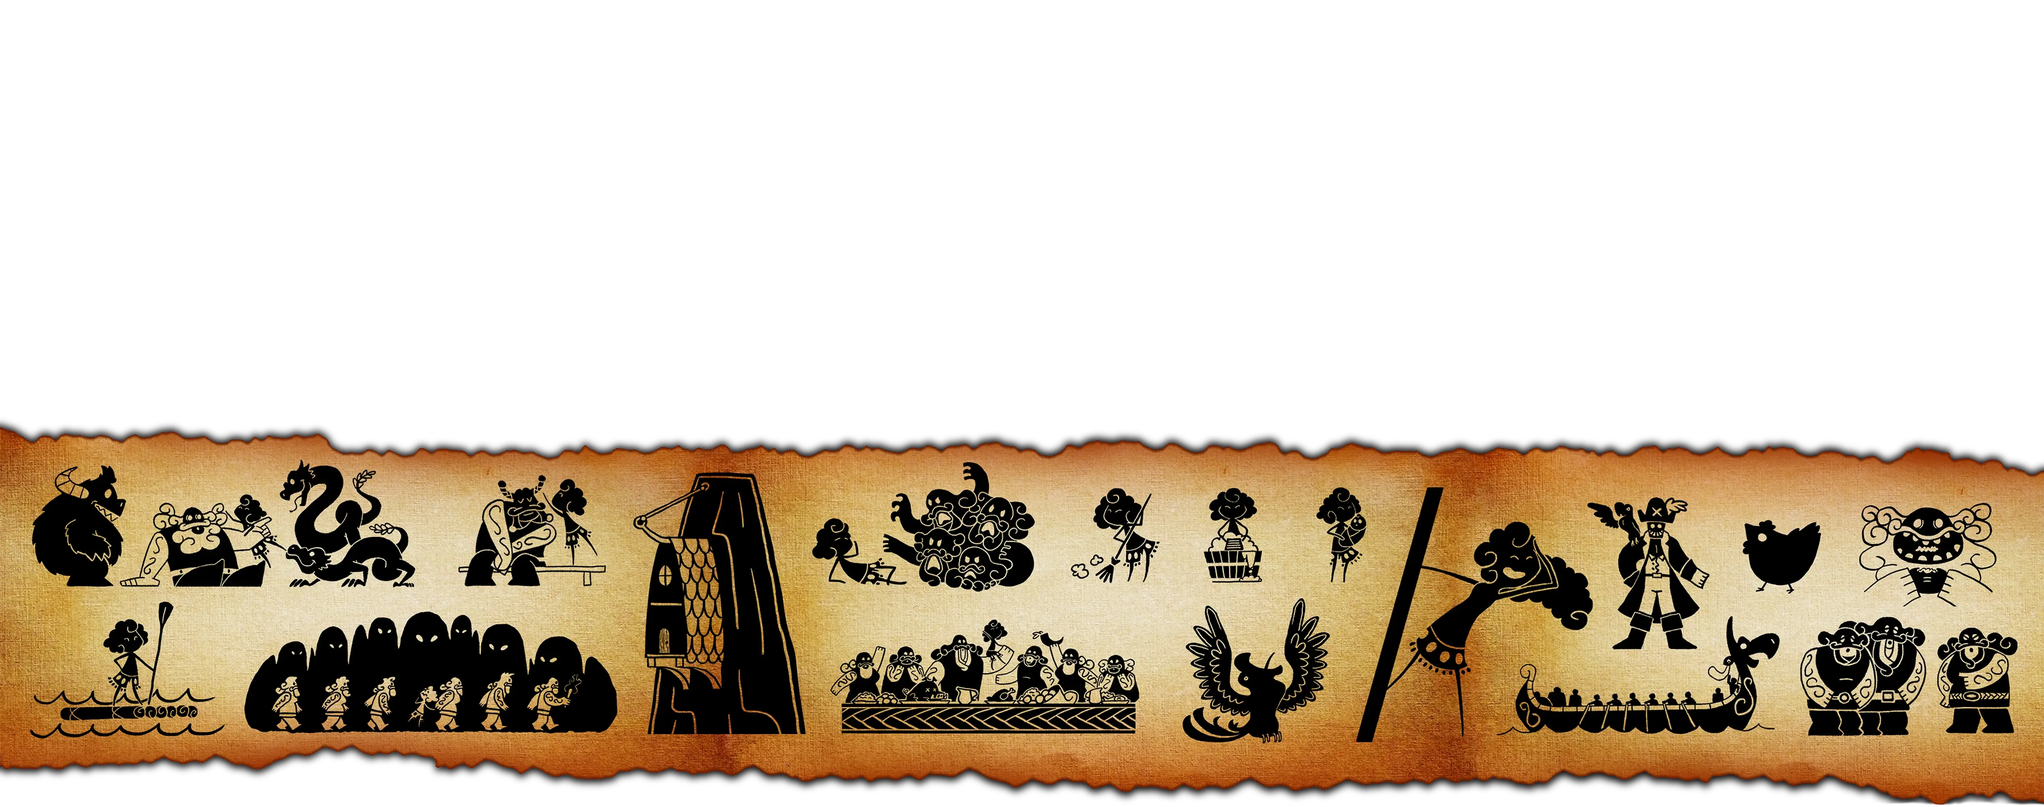
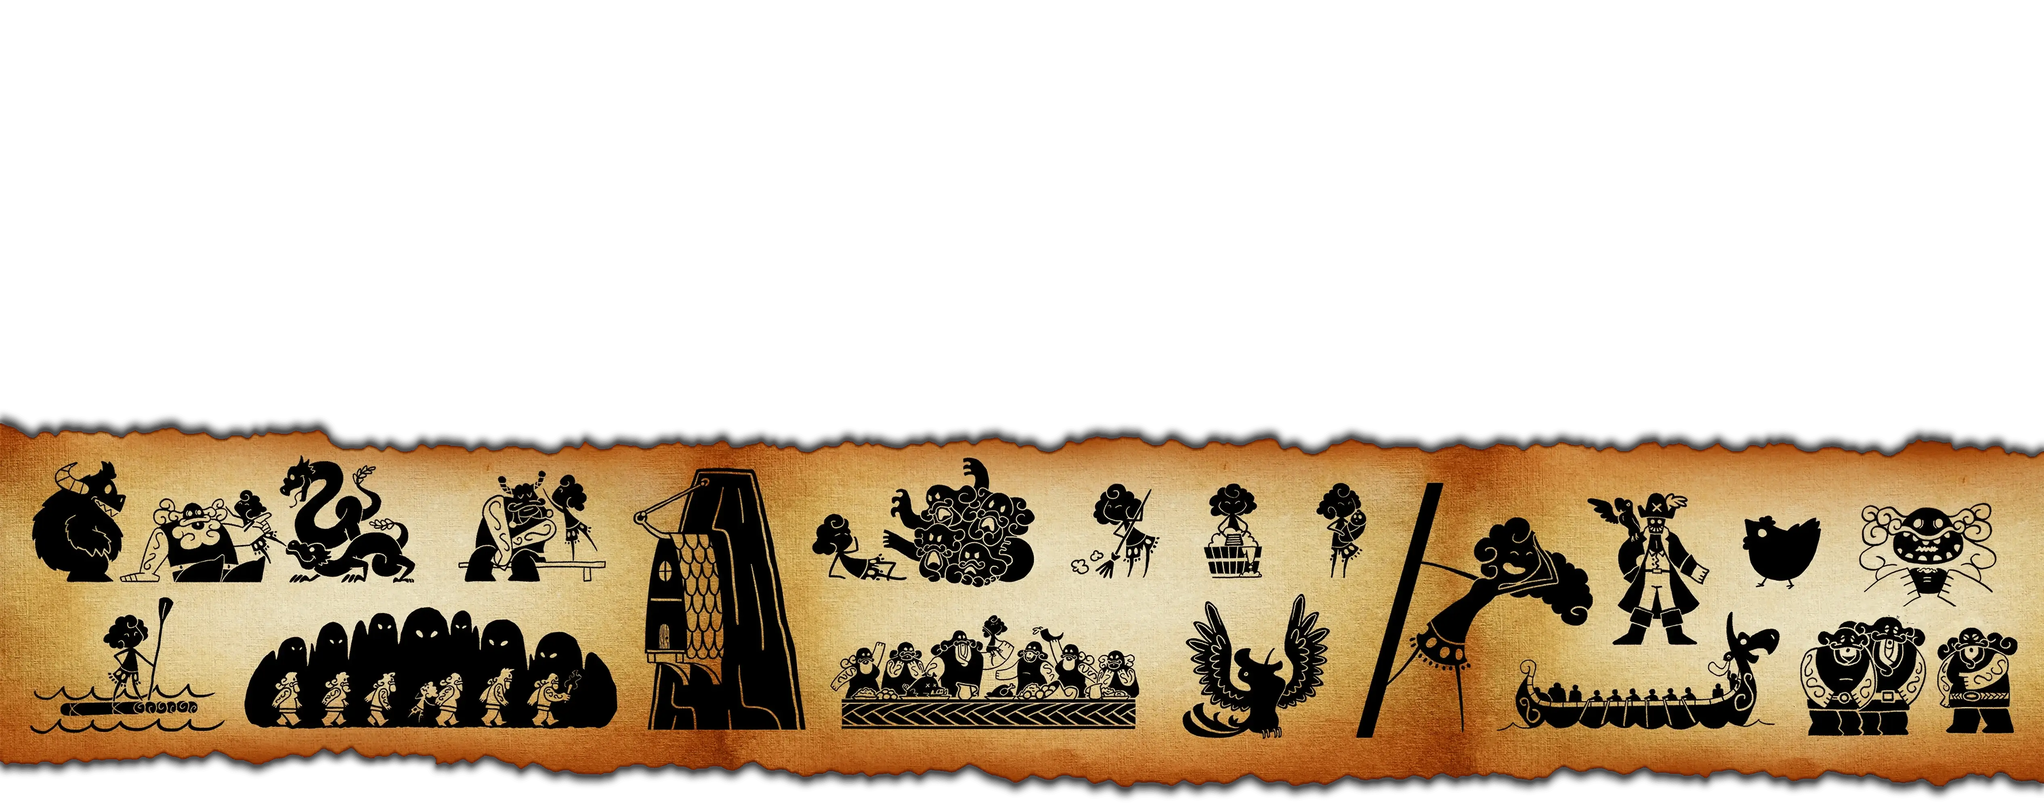
Actualizar proyectos.html y rollo.webp

Changed region(s): [[0.0, 0.496, 1.0, 1.0]]

diff --git a/proyectos.html b/proyectos.html
@@ -141,20 +141,20 @@ Após um redesenho, fiz dois painéis com montagens e preparei um pitch com o qu
               <div class="mobile-text-overlay" style="--text-size: 6cqw; --text-top: 5.5%; --text-left: 40%; --text-align: left; --text-max-width: 50cqw; --text-font-family: 'Cinzel', serif; color: black; --text-font-weight: 900; line-height: 120%;">
                 <span data-es="ETIQUETADO DE VINOS Y CERVEZAS" data-en="Wine and beer labeling" data-fr="Étiquetage de vins et bières" data-pt="Rotulagem de vinhos e cervejas"></span>
               </div>
-              <div class="mobile-text-overlay" style="--text-size: 3.5cqw; --text-top: 18%; --text-left: 41%; --text-align: left; --text-max-width: 56cqw; --text-font-family: 'Noto Serif', serif; color: black; --text-font-weight: 400; line-height: 120%">
+              <div class="mobile-text-overlay" style="--text-size: 3.4cqw; --text-top: 18%; --text-left: 41%; --text-align: left; --text-max-width: 56cqw; --text-font-family: 'Noto Serif', serif; color: black; --text-font-weight: 400; line-height: 120%">
                 <span data-es="En 2024 gané, junto a dos compañeros, un concurso de etiquetado que organiza la UPV. Alain Ferrer, Álvaro Selma y yo ganamos en la categoria de vinos. Por eso, en 2025, las botellas que la universidad envió como obsequio a otros centros llevaron nuestras etiquetas." data-en="In 2024 I was the winner, along with two classmates, in a labeling contest organized by the Polytechnic University of Valencia. Alain Ferrer, Álvaro Selma and I won in the wine category. That's why, in 2025, the bottles that the UPV sent as gifts to other centers bore our labels." data-fr="En 2024, j’ai remporté avec deux camarades un concours d’étiquetage organisé par l’Université Polytechnique de Valence. Alain Ferrer, Álvaro Selma et moi avons gagné dans la catégorie des vins. C’est pourquoi, en 2025, les bouteilles que l’UPV a offertes à d’autres centres portaient nos étiquettes." data-pt="Em 2024, fui vencedor, juntamente com dois colegas, de um concurso de etiquetagem organizado pela Universidade Politécnica de Valência. Alain Ferrer, Álvaro Selma e eu ganhámos na categoria de vinhos. Por isso, em 2025, as garrafas que a UPV enviou como presente para outros centros levavam as nossas etiquetas."></span>
               </div>
               <img id="p3" src="assets/Secciones/Proyectos/Nostre/Nostre1.webp" alt="Nostre 1" class="base">
               <div class="text-overlay" style="--text-top: 10%; --text-left: 48%; --text-transform: translateX(-50%); --text-size: 4.5cqw; font-family: 'Cinzel', serif; color: black; white-space: nowrap; text-align: center;"><span data-es="ETIQUETADO DE VINOS Y CERVEZAS" data-en="Wine and beer labeling" data-fr="Étiquetage de vins et bières" data-pt="Rotulagem de vinhos e cervejas"></span></div>
-              <div class="text-overlay" style="--text-top: 30%; --text-left: 8.5%; font-family: 'Noto Serif', serif; color: black; --text-size: 2cqw; font-weight: 400; text-align: justify; max-width: 22%; white-space: normal;"><span data-es="En 2024 fui ganador, junto a dos compañeros, en un concurso de etiquetado que organiza la Universidad Politécnica de Valencia." data-en="In 2024 I won, along with two classmates, in a labeling contest held by the Polytechnic University of Valencia." data-fr="En 2024, j’ai remporté avec deux camarades un concours d’étiquetage organisé par l’Université polytechnique de Valence." data-pt="Em 2024, fui vencedor, juntamente com dois colegas, de um concurso de etiquetagem organizado pela Universidade Politécnica de Valência."></span></div>
-              <div class="text-overlay" style="--text-top: 58.7%; --text-left: 68%; font-family: 'Noto Serif', serif; color:black; --text-size: 2cqw; font-weight: 400; text-align: justify; max-width: 25%; white-space: normal;"><span data-es="Alain Ferrer, Álvaro Selma y yo ganamos en la categoria de vinos. Por eso, en 2025, las botellas que la UPV envió como obsequio a otros centros llevaron nuestras etiquetas." data-en="Alain Ferrer, Álvaro Selma and I won in the wine category. That's why, in 2025, the bottles that UPV sent as gifts to other centers bore our labels." data-fr="Alain Ferrer, Álvaro Selma et moi avons gagné dans la catégorie des vins. C’est pourquoi, en 2025, les bouteilles que l’UPV a offertes à d’autres centres portaient nos étiquettes." data-pt="Alain Ferrer, Álvaro Selma e eu ganhámos na categoria de vinhos. Por isso, em 2025, as garrafas que a UPV enviou como presente para outros centros levavam as nossas etiquetas."></span></div>
+              <div class="text-overlay" style="--text-top: 30%; --text-left: 8.5%; font-family: 'Noto Serif', serif; color: black; --text-size: 1.6cqw; font-weight: 400; text-align: justify; max-width: 22%; white-space: normal;"><span data-es="En 2024 fui ganador, junto a dos compañeros, en un concurso de etiquetado que organiza la Universidad Politécnica de Valencia." data-en="In 2024 I won, along with two classmates, in a labeling contest held by the Polytechnic University of Valencia." data-fr="En 2024, j’ai remporté avec deux confréres un concours d’étiquetage organisé par l’Université polytechnique de Valence." data-pt="Em 2024, fui vencedor, juntamente com dois colegas, de um concurso de etiquetagem realizado pela Universidade Politécnica de Valência."></span></div>
+              <div class="text-overlay" style="--text-top: 58.7%; --text-left: 68%; font-family: 'Noto Serif', serif; color:black; --text-size: 1.6cqw; font-weight: 400; text-align: justify; max-width: 25%; white-space: normal;"><span data-es="Alain Ferrer, Álvaro Selma y yo ganamos en la categoria de vinos. Por eso, en 2025, las botellas que la UPV envió como obsequio a otros centros llevaron nuestras etiquetas." data-en="Alain Ferrer, Álvaro Selma and I won in the wine category. That's why, in 2025, the bottles that UPV sent as gifts to other centers bore our labels." data-fr="Alain Ferrer, Álvaro Selma et moi avons gagné dans la catégorie des vins. C’est pourquoi, en 2025, les bouteilles que l’UPV a offertes à d’autres centres portaient nos étiquettes." data-pt="Alain Ferrer, Álvaro Selma e eu ganhámos na categoria de vinhos. Por isso, em 2025, as garrafas que a UPV enviou como presente para outros centros levavam as nossas etiquetas."></span></div>
             </div>
             <div class="image-wrap" id="p4">
               <img class="mobile-bg" src="assets/Secciones/Proyectos/Nostre/movil/fondonostre2.webp" alt="Nostre (fondo 2 móvil)" loading="lazy" decoding="async">
-              <div class="mobile-text-overlay" style="--text-size: 4cqw; --text-top: 3%; --text-left: 50%; --text-transform: translateX(-50%); --text-align: center; --text-width: 88cqw; --text-font-family: 'Noto Serif', serif; color: black; --text-font-weight: 400;">
+              <div class="mobile-text-overlay" style="--text-size: 3.4cqw; --text-top: 3%; --text-left: 50%; --text-transform: translateX(-50%); --text-align: center; --text-width: 88cqw; --text-font-family: 'Noto Serif', serif; color: black; --text-font-weight: 400;">
                 <span data-es="La propuesta que hicimos en la categoría de cervezas buscaba adaptar la identidad de la UPV la típica imagen de fraternidades universitarias estadounidenses. Creamos nueve mascotas y usamos colores representativos para cada escuela." data-en="Our proposal for the beer category sought to adapt UPV’s identity to the typical imagery of American university fraternities. We created nine mascots and used representative colors for each school." data-fr="Notre proposition pour la catégorie des bières visait à adapter l’identité de l’UPV à l’imagerie typique des fraternités universitaires américaines. Nous avons créé neuf mascottes et utilisé des couleurs représentatives pour chaque école." data-pt="A nossa proposta para a categoria de cervejas procurou adaptar a identidade da UPV ao imaginário típico das fraternidades universitárias americanas. Criámos nove mascotes e utilizámos cores representativas para cada escola."></span>
               </div>
-              <div class="mobile-text-overlay" style="--text-size: 4cqw; --text-top: 73%; --text-left: 50%; --text-transform: translateX(-50%); --text-align: center; --text-max-width: 89cqw; --text-width: 99cqw; --text-font-family: 'Noto Serif', serif; color: black; --text-font-weight: 400;">
+              <div class="mobile-text-overlay" style="--text-size: 3.4cqw; --text-top: 73%; --text-left: 50%; --text-transform: translateX(-50%); --text-align: center; --text-max-width: 89cqw; --text-width: 99cqw; --text-font-family: 'Noto Serif', serif; color: black; --text-font-weight: 400;">
                 <span data-es="En cuanto a los vinos, quisimos presentar un etiquetado sobrio que mostrase una visión romántica del Mediterráneo. Para ello, usamos una fuente gruesa con serifas suaves, concentrando todo el color en la 'N' para aludir a las letras capitales, tan populares durante el romanticismo." data-en="For the wines we opted for a sober label that conveys a romantic vision of the Mediterranean. We used a bold typeface with soft serifs, concentrating all color in the ‘N’ to evoke illuminated initials, so popular during Romanticism." data-fr="Pour les vins, nous avons choisi un étiquetage sobre qui présente une vision romantique de la Méditerranée. Nous avons utilisé une typographie épaisse aux empattements doux, en concentrant toute la couleur sur le « N » afin d’évoquer les lettres capitales, très populaires à l’époque du romantisme." data-pt="Para os vinhos, optámos por uma etiqueta sóbria que apresenta uma visão romântica do Mediterrâneo. Usámos uma tipografia espessa com serifas suaves, concentrando toda a cor no «N» para evocar as letras capitais, muito populares durante o romantismo."></span>
               </div>
               <img id="p4" src="assets/Secciones/Proyectos/Nostre/Nostre2.webp" alt="Nostre 2" class="base">
@@ -168,7 +168,7 @@ Após um redesenho, fiz dois painéis com montagens e preparei um pitch com o qu
               <img id="p4" src="assets/Secciones/Proyectos/Nostre/Botella2.webp" alt="Botella2" class="overlay overlay-botella" style="--overlay-top:0%;" data-botella="2">
               <img id="p4" src="assets/Secciones/Proyectos/Nostre/Botella1.webp" alt="Botella1" class="overlay overlay-botella" style="--overlay-top:0%;" data-botella="1">
               <div class="text-overlay" style="--text-top: 28%; --text-left: 60%; font-family: 'Aver', sans-serif; font-style: italic; font-size: 6cqw; color: black; max-width: 19cqw; line-height: 0.9;"><span data-es="Fraternidades Americanas" data-en="American Fraternities" data-fr="Fraternités Américaines" data-pt="Fraternidades Americanas"></span></div>
-              <div class="text-overlay" style="--text-top: 50%; --text-left: 60%; font-family: 'Noto Serif', Times, serif; color: black; --text-size: 2cqw; font-weight: 400; max-width: 35%;"><span data-es="La propuesta que hicimos en la categoría de cervezas buscaba adaptar la identidad de la UPV la típica imagen de fraternidades universitarias estadounidenses." data-en="The proposal we made in the beer category sought to adapt UPV's identity to the typical image of American university fraternities." data-fr="Notre proposition dans la catégorie des bières visait à adapter l’identité de l’UPV à l’imagerie typique des fraternités universitaires américaines." data-pt="A proposta que apresentámos na categoria de cervejas procurava adaptar a identidade da UPV ao imaginário típico das fraternidades universitárias americanas."></span></div>
+              <div class="text-overlay" style="--text-top: 50%; --text-left: 60%; font-family: 'Noto Serif', Times, serif; color: black; --text-size: 1.6cqw; font-weight: 400; max-width: 35%;"><span data-es="La propuesta que hicimos en la categoría de cervezas buscaba adaptar la identidad de la UPV la típica imagen de fraternidades universitarias estadounidenses." data-en="The proposal we made in the beer category sought to adapt UPV's identity to the typical image of American university fraternities." data-fr="Notre proposition dans la catégorie des bières visait à adapter l’identité de l’UPV à l’imagerie typique des fraternités universitaires américaines." data-pt="A proposta que apresentámos na categoria de cervejas procurava adaptar a identidade da UPV ao imaginário típico das fraternidades universitárias americanas."></span></div>
             </div>
             <div class="image-wrap" id="p5">
               <img id="p5" src="assets/Secciones/Proyectos/Nostre/Nostre3.webp" alt="Nostre 3" class="base">
@@ -177,7 +177,7 @@ Após um redesenho, fiz dois painéis com montagens e preparei um pitch com o qu
             <div class="image-wrap" id="p6">
               <img id="p6" src="assets/Secciones/Proyectos/Nostre/Nostre4.webp" alt="Nostre 4">
               <div class="text-overlay" style="--text-top: 20%; --text-left: 10%; font-family: 'CCTheStorySoNearWOO-Regular', serif; font-size: 5.5cqw; color: black; max-width: 31%; line-height: 0.95;"><span data-es="Romanticismo Mediterráneo" data-en="Mediterranean Romanticism" data-fr="Romantisme méditerranéen" data-pt="Romantismo mediterrâneo"></span></div>
-              <div class="text-overlay" style="--text-top: 42%; --text-left: 10%; font-family: 'Noto Serif', Times, serif; color: black; --text-size: 2cqw; font-weight: 400; max-width: 29.75%; text-align: justify; white-space: pre-line; line-height: 1.4;"><span data-es="En cuanto a los vinos, quisimos presentar un etiquetado más sobrio, y que además mostrase una visión romántica del Mediterráneo.
+              <div class="text-overlay" style="--text-top: 42%; --text-left: 10%; font-family: 'Noto Serif', Times, serif; color: black; --text-size: 1.6cqw; font-weight: 400; max-width: 29.75%; text-align: justify; white-space: pre-line; line-height: 1.4;"><span data-es="En cuanto a los vinos, quisimos presentar un etiquetado más sobrio, y que además mostrase una visión romántica del Mediterráneo.
 
               Para ello, usamos una fuente gruesa con serifas suaves, concentrando todo el color en la &quot;N&quot; para aludir a las letras capitales, tan populares durante el romanticismo." data-en="For the wines we wanted to present a more sober labeling that would show a romanticized vision of the Mediterranean.
 
@@ -246,10 +246,10 @@ No final, fiz dois cartazes e integrei gráficos animados no material das redes;
               <div class="mobile-text-overlay" style="--text-size: 3cqw; --text-top: 60%; --text-left: 50%; --text-transform: translateX(-50%); --text-align: left; --text-width: 75cqw; --text-max-width: 75cqw; --text-font-family: 'Google Sans Code'; color: black; line-height: 120%;">
                 <span data-es="En Halloween de 2025 trabajé con Clarió produciendo un número de carteles para la Zona Zombi que recorría el ayuntamiento de Emperador. Como miembro del equipo de decorado, también ayudé a diseñar el recorrido y la ambientación para asegurar una experiencia completa" data-en="On Halloween 2025 I worked with Clarió producing a set of posters for the Zombie Zone that ran through Emperador’s city hall. As part of the set design team, I also helped design the route and the atmosphere to ensure a complete experience." data-fr="Lors d’Halloween 2025, j’ai travaillé avec Clarió à la production d’une série d’affiches pour la Zone Zombie qui traversait l’hôtel de ville d’Emperador. En tant que membre de l’équipe de scénographie, j’ai également aidé à concevoir le parcours et l’ambiance afin d’assurer une expérience complète." data-pt="No Halloween de 2025, trabalhei com a Clarió na produção de um conjunto de cartazes para a Zona Zumbi que percorria a Câmara Municipal de Emperador. Como membro da equipa de cenografia, também ajudei a desenhar o percurso e a ambientação para garantir uma experiência completa."></span>
               </div>
-              <div class="mobile-text-overlay" style="--text-size: 8cqw; --text-top: 84.6%; --text-left: 57.5%; --text-align: center; --text-transform: translateX(-50%); --text-width: 90cqw; --text-max-width: 90cqw; --text-font-family: 'Anton'; color: rgb(197, 27, 27); line-height: 120%;">
+              <div class="mobile-text-overlay" style="--text-size: 8cqw; --text-top: 84.6%; --text-left: 57.75%; --text-align: center; --text-transform: translateX(-50%); --text-width: 90cqw; --text-max-width: 90cqw; --text-font-family: 'Anton'; color: rgb(197, 27, 27); line-height: 120%;">
                 <span data-es="Zona Zombi" data-en="Zombie Zone" data-fr="Zone Zombie" data-pt="Zona Zumbi"></span>
               </div>
-              <div class="mobile-text-overlay" style="--text-size: 8cqw; --text-top: 89.75%; --text-left: 36.4%; --text-align: left; --text-width: 90cqw; --text-max-width: 90cqw; --text-font-family: 'Anton'; color: rgb(243, 243, 243); line-height: 120%;">
+              <div class="mobile-text-overlay" style="--text-size: 8cqw; --text-top: 89.75%; --text-left: 37.3%; --text-align: left; --text-width: 90cqw; --text-max-width: 90cqw; --text-font-family: 'Anton'; color: rgb(243, 243, 243); line-height: 120%;">
                 <span data-es="Emperador" data-en="Emperador" data-fr="Emperador" data-pt="Emperador"></span>
               </div>
               <!-- Base de escritorio (se ocultará en móvil por las reglas generales) -->
@@ -267,7 +267,7 @@ No final, fiz dois cartazes e integrei gráficos animados no material das redes;
               <div class="text-overlay" style="--text-top: 8%; --text-left: 9.1%; --text-max-width: 33cqw; color: black; font-family:'Google Sans Code'; font-size: 1.2cqw;"><span data-es="En Halloween de 2025, en colaboración con el Ayuntamiento de Emperador, Clarió organizó una zona zombi que recorría la sede municipal. Como miembro del equipo de decorado, asistí en el diseño del recorrido y de la ambientación." data-en="For Halloween 2025, in collaboration with the Emperador City Council, Clarió organized a zombie area that ran across the municipal headquarters. As a member of the set design team, I helped designing the route and the atmosphere." data-fr="Lors d’Halloween 2025, en collaboration avec la mairie d’Emperador, l’entreprise Clarió a organisé une zone zombie qui traversait tout le siège municipal. En tant que membre de l’équipe de scénographie, j’ai aidé à concevoir le parcours et l’ambiance." data-pt="No Halloween de 2025, em colaboração com a Câmara Municipal de Emperador, a empresa Clarió organizou uma zona zumbi que percorria toda a sede municipal. Como membro da equipa de cenografia, ajudei a conceber o percurso e a ambientação."></span></div>
               <div class="text-overlay" style="--text-top: 71%; --text-left: 9.6%; --text-max-width: 33cqw; color: black; font-family:'Google Sans Code'; font-size: 1.2cqw;"><span data-es="Además, produje ocho señales que combinaban pictogramas con mensajes explicando normas del juego. Las señales fueron impresas en alta calidad y situadas en puntos clave del recorrido, creando una experiencia mucho más completa." data-en="I also made eight different signs that combined pictograms with brief messages explaining game rules. The signs were printed in high quality and placed at key points along the route, creating a much more complete experience." data-fr="En outre, j’ai fait huit panneaux qui combinait des pictogrammes avec des messages expliquant les règles du jeu. Les panneaux ont été imprimés en haute qualité et placés à des points clés du parcours, créant une expérience bien plus complète." data-pt="Além disso, produzi vários sinais que combinavam pictogramas com mensagens explicando regras do jogo. Os sinais foram impressos em alta qualidade e colocados em pontos‑chave do percurso, criando uma experiência muito mais completa."></span></div>
               <div class="text-overlay" style="--text-top: 75.5%; --text-left: 74.7%; --text-transform: translateX(-50%); --text-max-width: 33cqw; color: rgb(197, 27, 27); font-family: Anton, 'Arial Black', sans-serif; font-size: 4cqw;"><span data-es="Zona Zombi" data-en="Zombie Zone" data-fr="Zone Zombie" data-pt="Zona Zumbi"></span></div>
-              <div class="text-overlay" style="--text-top: 84.5%; --text-left: 65.65%; --text-max-width: 33cqw; color: rgb(243, 243, 243); font-family: Anton, 'Arial Black', sans-serif; font-size: 4cqw;"><span data-es="Emperador" data-en="Emperador" data-fr="Emperador" data-pt="Emperador"></span></div>
+              <div class="text-overlay" style="--text-top: 84.5%; --text-left: 66%; --text-max-width: 33cqw; color: rgb(243, 243, 243); font-family: Anton, 'Arial Black', sans-serif; font-size: 4cqw;"><span data-es="Emperador" data-en="Emperador" data-fr="Emperador" data-pt="Emperador"></span></div>
 
               <!-- Overlays de carteles para la sección 'Decorado de Zona Zombi' -->
               <img src="assets/Secciones/Proyectos/Zombis/cartel1.webp" alt="Cartel 1" class="overlay" data-cartel="1" style="--overlay-top:0%;" />
@@ -441,7 +441,7 @@ O valor principal dos designs reside na combinação de elementos icónicos do j
             <div class="image-wrap" id="p19">
               <img class="mobile-bg" src="assets/Secciones/Proyectos/Libro/movil/fondolibro.webp" alt="Libro (fondo móvil)" loading="lazy" decoding="async">
               <img id="p19" src="assets/Secciones/Proyectos/Libro/libro1.webp" alt="Libro 1">
-              <div class="text-overlay" style="--text-top: 58%; --text-left: 50%; --text-transform: translateX(-50%); text-align: center; font-family:'Noto Serif'; font-size: 2cqw; font-weight: 400; background: linear-gradient(to bottom, #C9A961 0%, #C9A961 30%, #b58d07 100%); background-size: 100% 1.4em; background-repeat: repeat-y; background-attachment: local; -webkit-background-clip: text; -webkit-text-fill-color: transparent; background-clip: text; text-shadow: 0 1px 2px rgba(139, 69, 19, 0.3); max-width: 42cqw; line-height: 1.4;"><span data-es="Como parte de un proyecto académico, se nos instó a diseñar las cubiertas de &quot;El Libro de la Selva&quot;.
+              <div class="text-overlay" style="--text-top: 58%; --text-left: 50%; --text-transform: translateX(-50%); text-align: center; font-family:'Noto Serif'; font-size: 1.8cqw; font-weight: 400; background: linear-gradient(to bottom, #C9A961 0%, #C9A961 30%, #b58d07 100%); background-size: 100% 1.4em; background-repeat: repeat-y; background-attachment: local; -webkit-background-clip: text; -webkit-text-fill-color: transparent; background-clip: text; text-shadow: 0 1px 2px rgba(139, 69, 19, 0.3); max-width: 42cqw; line-height: 1.4;"><span data-es="Como parte de un proyecto académico, se nos instó a diseñar las cubiertas de &quot;El Libro de la Selva&quot;.
                 Opté por un diseño simple, acorde con las tendencias actuales en diseño editorial, pero con un corte tradicional, ya que se trata de un clásico de la literatura inglesa." data-en="As part of an academic project, we were asked to design the covers of &quot;The Jungle Book&quot;.
                 I opted for a simple design, in line with current editorial trends, but with a traditional approach, as it is a classic of English literature." data-fr="Dans le cadre d’un projet académique, nous avons été invités à concevoir les couvertures du « Livre de la jungle ».
                 J’ai opté pour un design simple, conforme aux tendances actuelles du design éditorial, mais avec une touche traditionnelle, puisqu’il s’agit d’un classique de la littérature anglaise." data-pt="Como parte de um projeto académico, fomos convidados a desenhar as capas de «O Livro da Selva».
